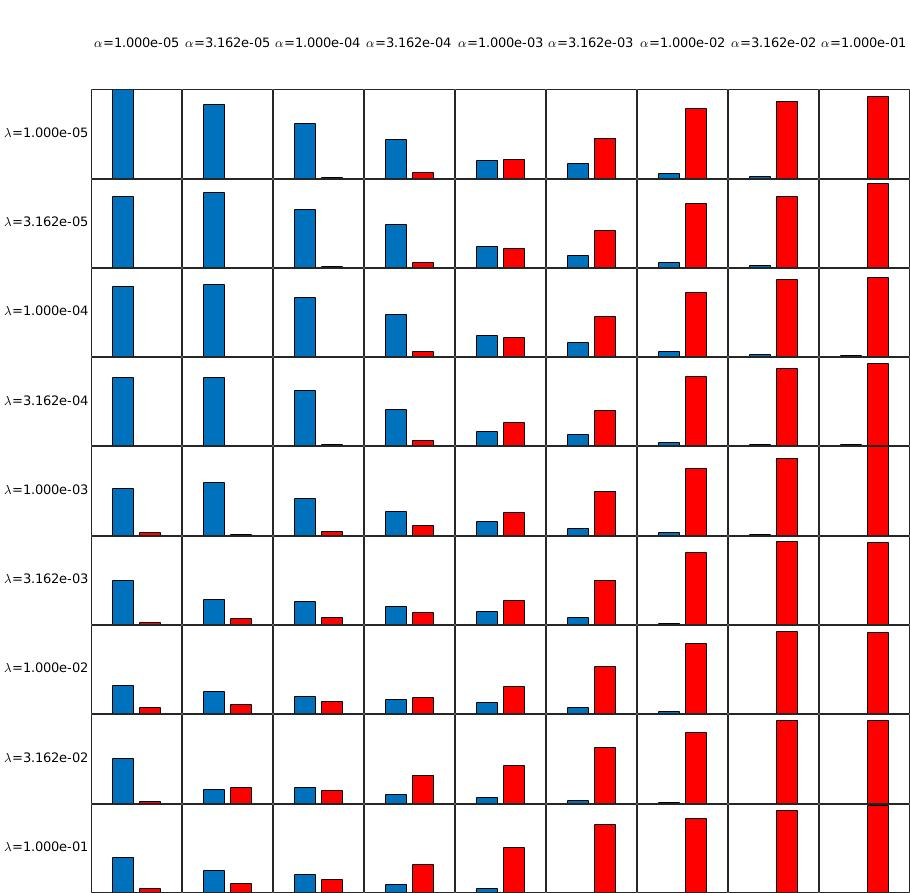
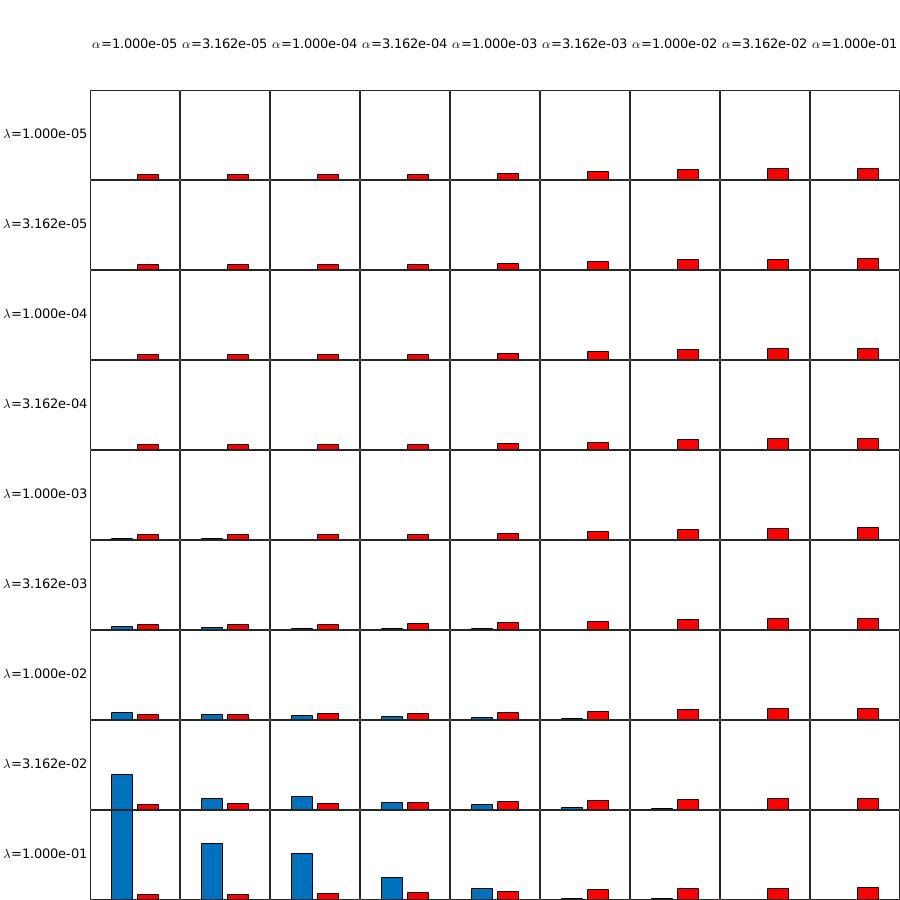
Add plot for choosing lambda and alpha without normalization, start robustness to noise plot

diff --git a/robustness.m b/robustness.m
@@ -1,0 +1,50 @@
+clear all
+close all
+clc
+root = fileparts(pwd);
+addpath(fullfile(root, 'TFOCS'))
+
+% Common settings
+number_of_seqences = 3;
+T = 3000; % length of data to generate
+Nneurons = 10*ones(number_of_seqences,1); % number of neurons in each sequence
+Dt = 3.*ones(number_of_seqences,1); % gap between each member of the sequence
+
+%% Robustness to participation probability
+N_trials = 1;
+prob_dropout = 0:.1:.9;
+scores = zeros(N_trials, length(prob_dropout));
+
+for i = 1:length(prob_dropout)
+    for n = 1:N_trials
+        NeuronNoise = 0; % probability of added noise in each bin
+        SeqNoiseTime = zeros(number_of_seqences,1); % Jitter parameter = 0%
+        SeqNoiseNeuron = (1-prob_dropout(i)).*ones(number_of_seqences,1); % Participation parameter = 100%
+        neg = 0.2; % Proportion of negative indices in W
+        [X, W, H, V_hat] = generate_data(T,Nneurons,Dt,NeuronNoise,SeqNoiseTime,SeqNoiseNeuron,0,0,neg,1);
+    %     figure; SimpleWHPlot(W,H,X); title('generated data','Fontsize',16)
+    %     set(gcf,'position',[200,200,1200,900])
+        nuc_norm = norm(svd(X),1);
+        X = X/nuc_norm*size(X,1);
+
+        % Run FlexMF
+        shg; clf
+        K = 5;
+        L = 50;
+        lambda = 1e-2;
+        alpha = 1e-2;
+        lambdaL1H = 0;
+        lambdaL1W = .1;
+        display(['Participation probability ' num2str(1-prob_dropout(i))])
+        tic
+        [W_hat,H_hat,cost,loadings,power] = FlexMF(X,'K',K, 'L', L, 'maxiter', 50,...
+            'lambda', lambda, 'alpha', alpha, 'lambdaL1W', lambdaL1W, 'lambdaL1H', lambdaL1H);
+        toc
+        set(gcf,'position',[200,200,1200,900])
+        scores(n,i) = helper.similarity(W, H, W_hat, H_hat);
+    end
+end
+figure;
+plot(prob_dropout, scores)
+xlabel('% Dropout')
+ylabel('Similarity to ground truth')

diff --git a/demo.m b/demo.m
@@ -27,7 +27,7 @@ set(gcf,'position',[200,200,1200,900])
 nuc_norm = norm(svd(X),1);
 X = X/nuc_norm*size(X,1);
 
-%% Fit with seqNMF
+%% Fit with FlexMF
 K = 5;
 L = 50;
 lambda = 1e-4;
@@ -75,6 +75,36 @@ save('choose_lambda.mat', 'costs', 'regularization', 'times', 'loadings',...
     'lambdas', 'alphas')
 %% plot costs as a function of lambda
 load choose_lambda.mat;
+nLambdas = length(lambdas); 
+nAlphas = length(alphas);
+regularization = regularization.*repmat(lambdas', 1, nAlphas);
+maxRs= max(regularization(:));
+
+figure;
+set(gcf,'position',[200,200,900,900])
+marginX = 0.1;
+marginY = 0.1;
+for li = 1:nLambdas
+    for ai = 1:nAlphas
+        subplot('Position', [marginX+(ai-1)*(1-marginX)/nAlphas, (nLambdas-li)*(1-marginY)/nLambdas, (1-marginX)/nAlphas, (1-marginY)/nLambdas]);
+        b = bar([regularization(li,ai), costs(li,ai)],'FaceColor','flat');
+        b.CData(2,:) = [1 0 0];
+        set(gca,'YLim',[0,maxRs],'XTick',[],'YTick',[])
+    end
+end
+dim_Lambdas = [zeros(nLambdas,1), (nLambdas-1:-1:0)'*(1-marginY)/nLambdas,... 
+    (1-marginX)/nAlphas*ones(nLambdas,1), (1-marginY)/nLambdas*ones(nLambdas,1)];
+dim_Alphas = [marginX+(0:nAlphas-1)'*(1-marginX)/nAlphas, (1-marginY)*ones(nAlphas,1),...
+    (1-marginX)/nAlphas*ones(nAlphas,1), (1-marginY)/nLambdas*ones(nAlphas,1)];
+for li = 1:nLambdas
+    annotation('textbox',dim_Lambdas(li,:),'String',sprintf('\\lambda=%0.3e',lambdas(li)),...
+        'HorizontalAlignment', 'center', 'VerticalAlignment', 'middle', 'EdgeColor', 'none')
+end
+for ai = 1:nAlphas
+    annotation('textbox',dim_Alphas(ai,:),'String',sprintf('\\alpha=%0.3e',alphas(ai)),...
+        'HorizontalAlignment', 'center', 'VerticalAlignment', 'middle', 'EdgeColor', 'none')
+end     
+
 windowSize = 3; 
 b = (1/windowSize)*ones(1,windowSize);
 a = 1;
